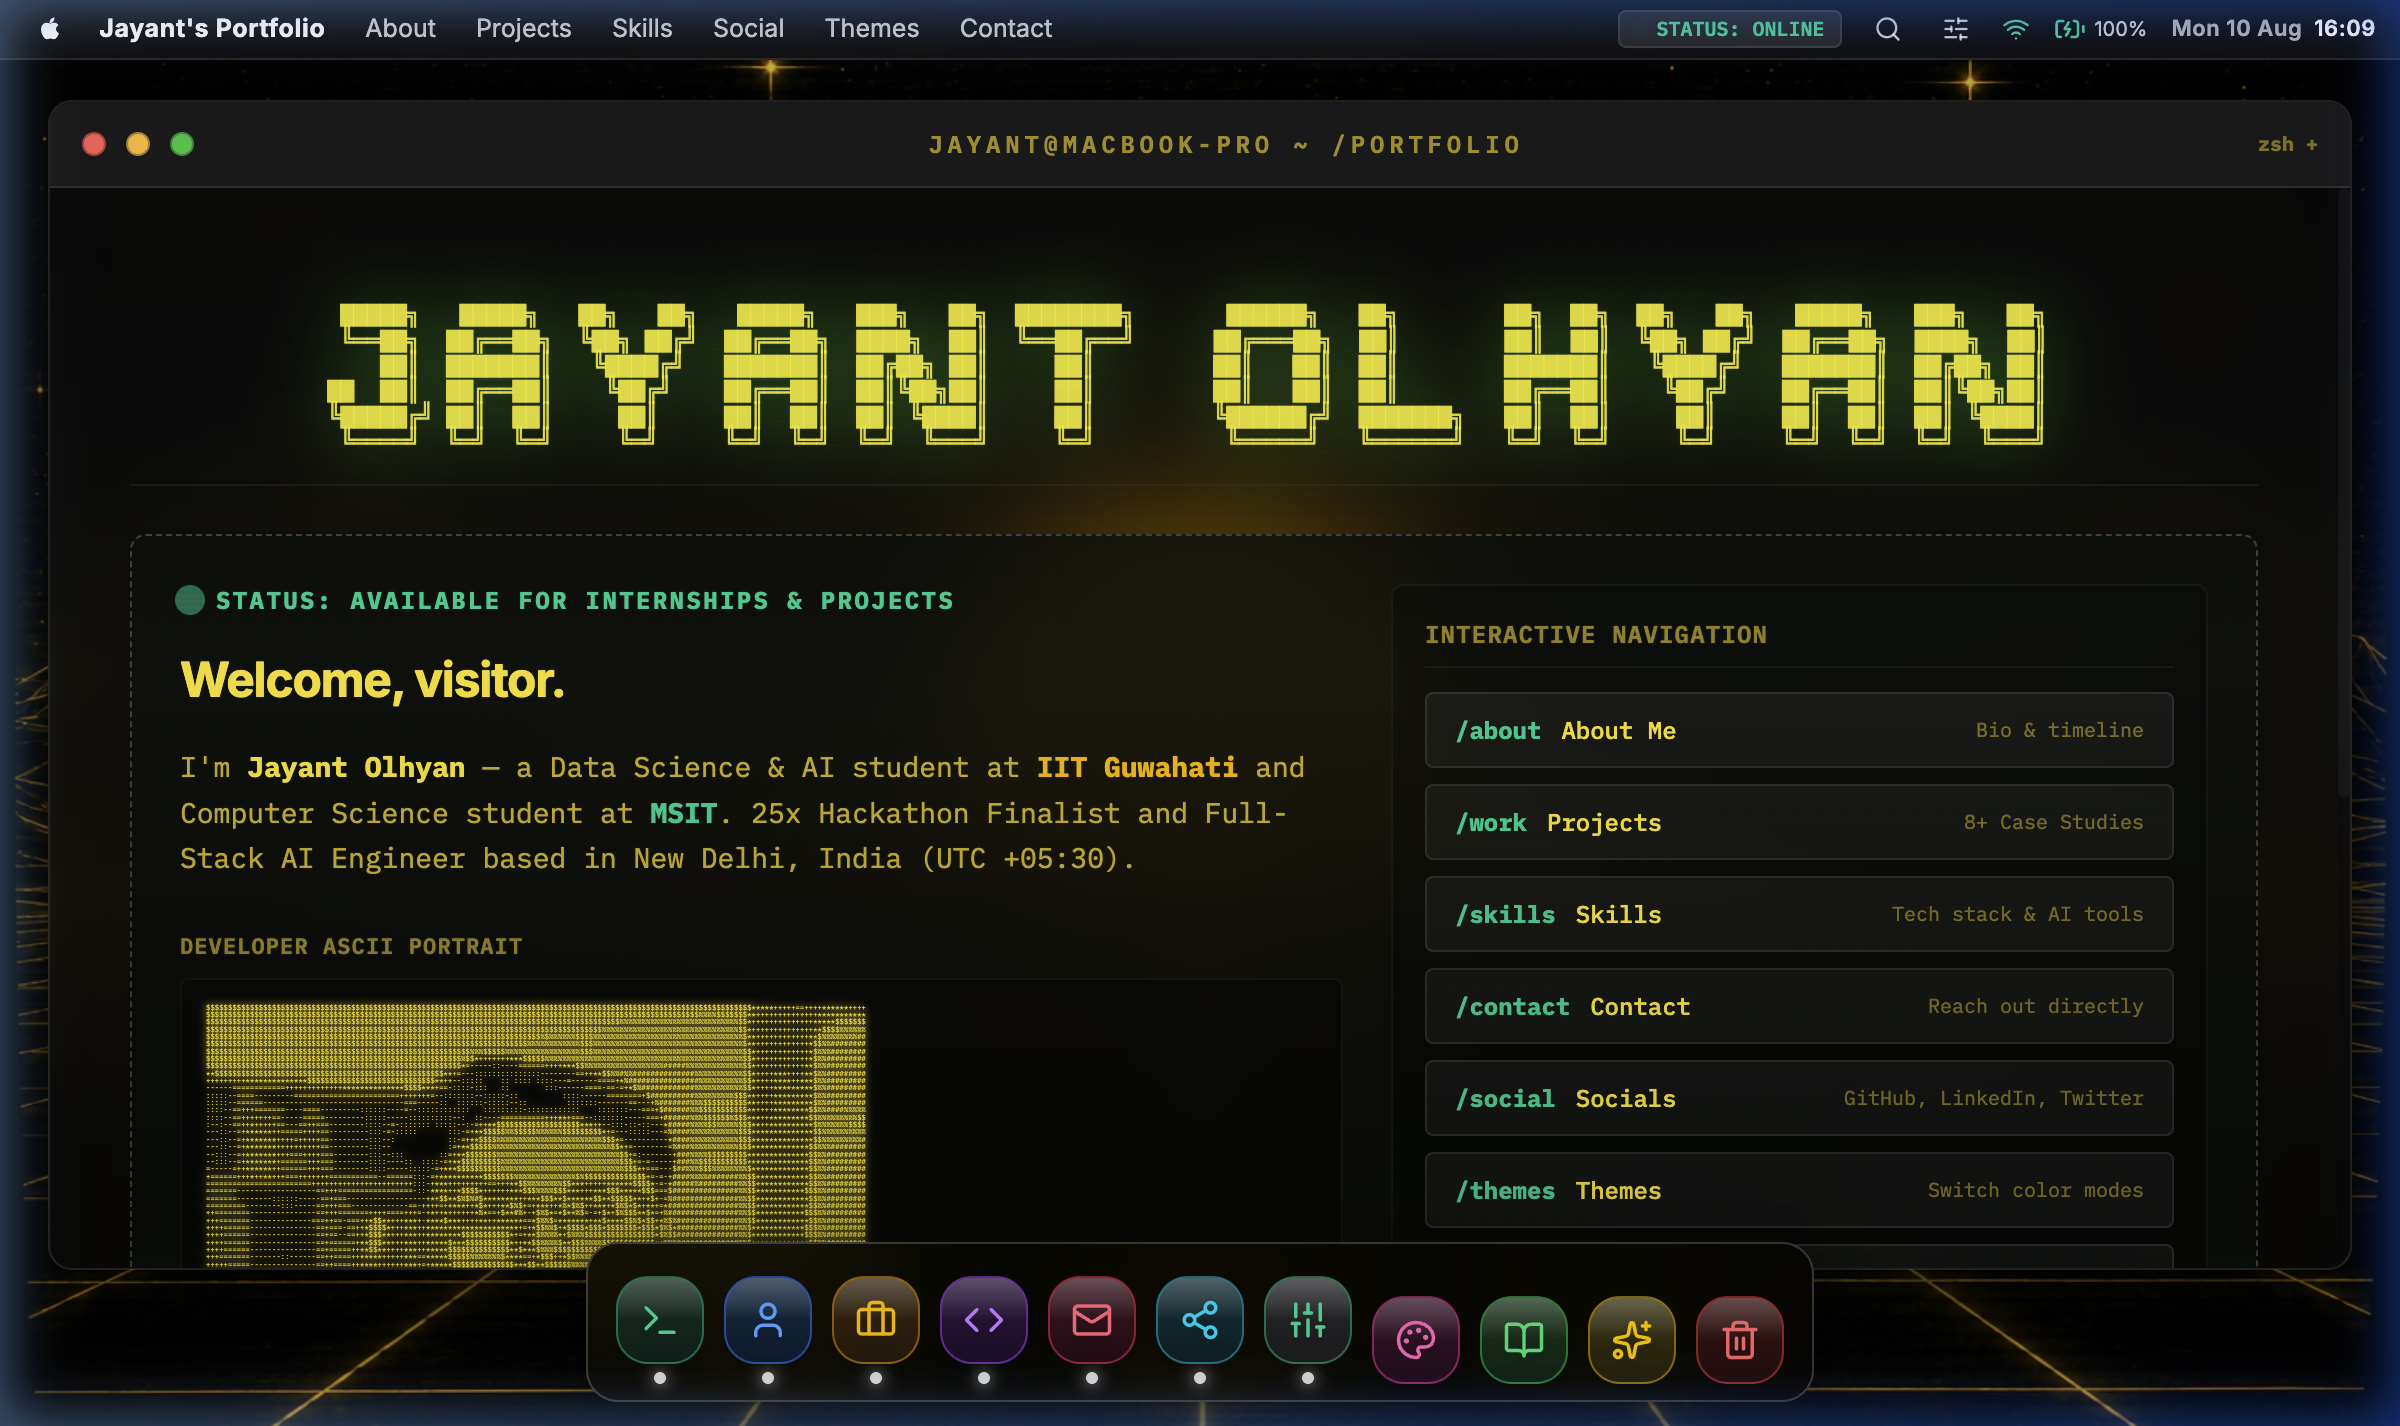
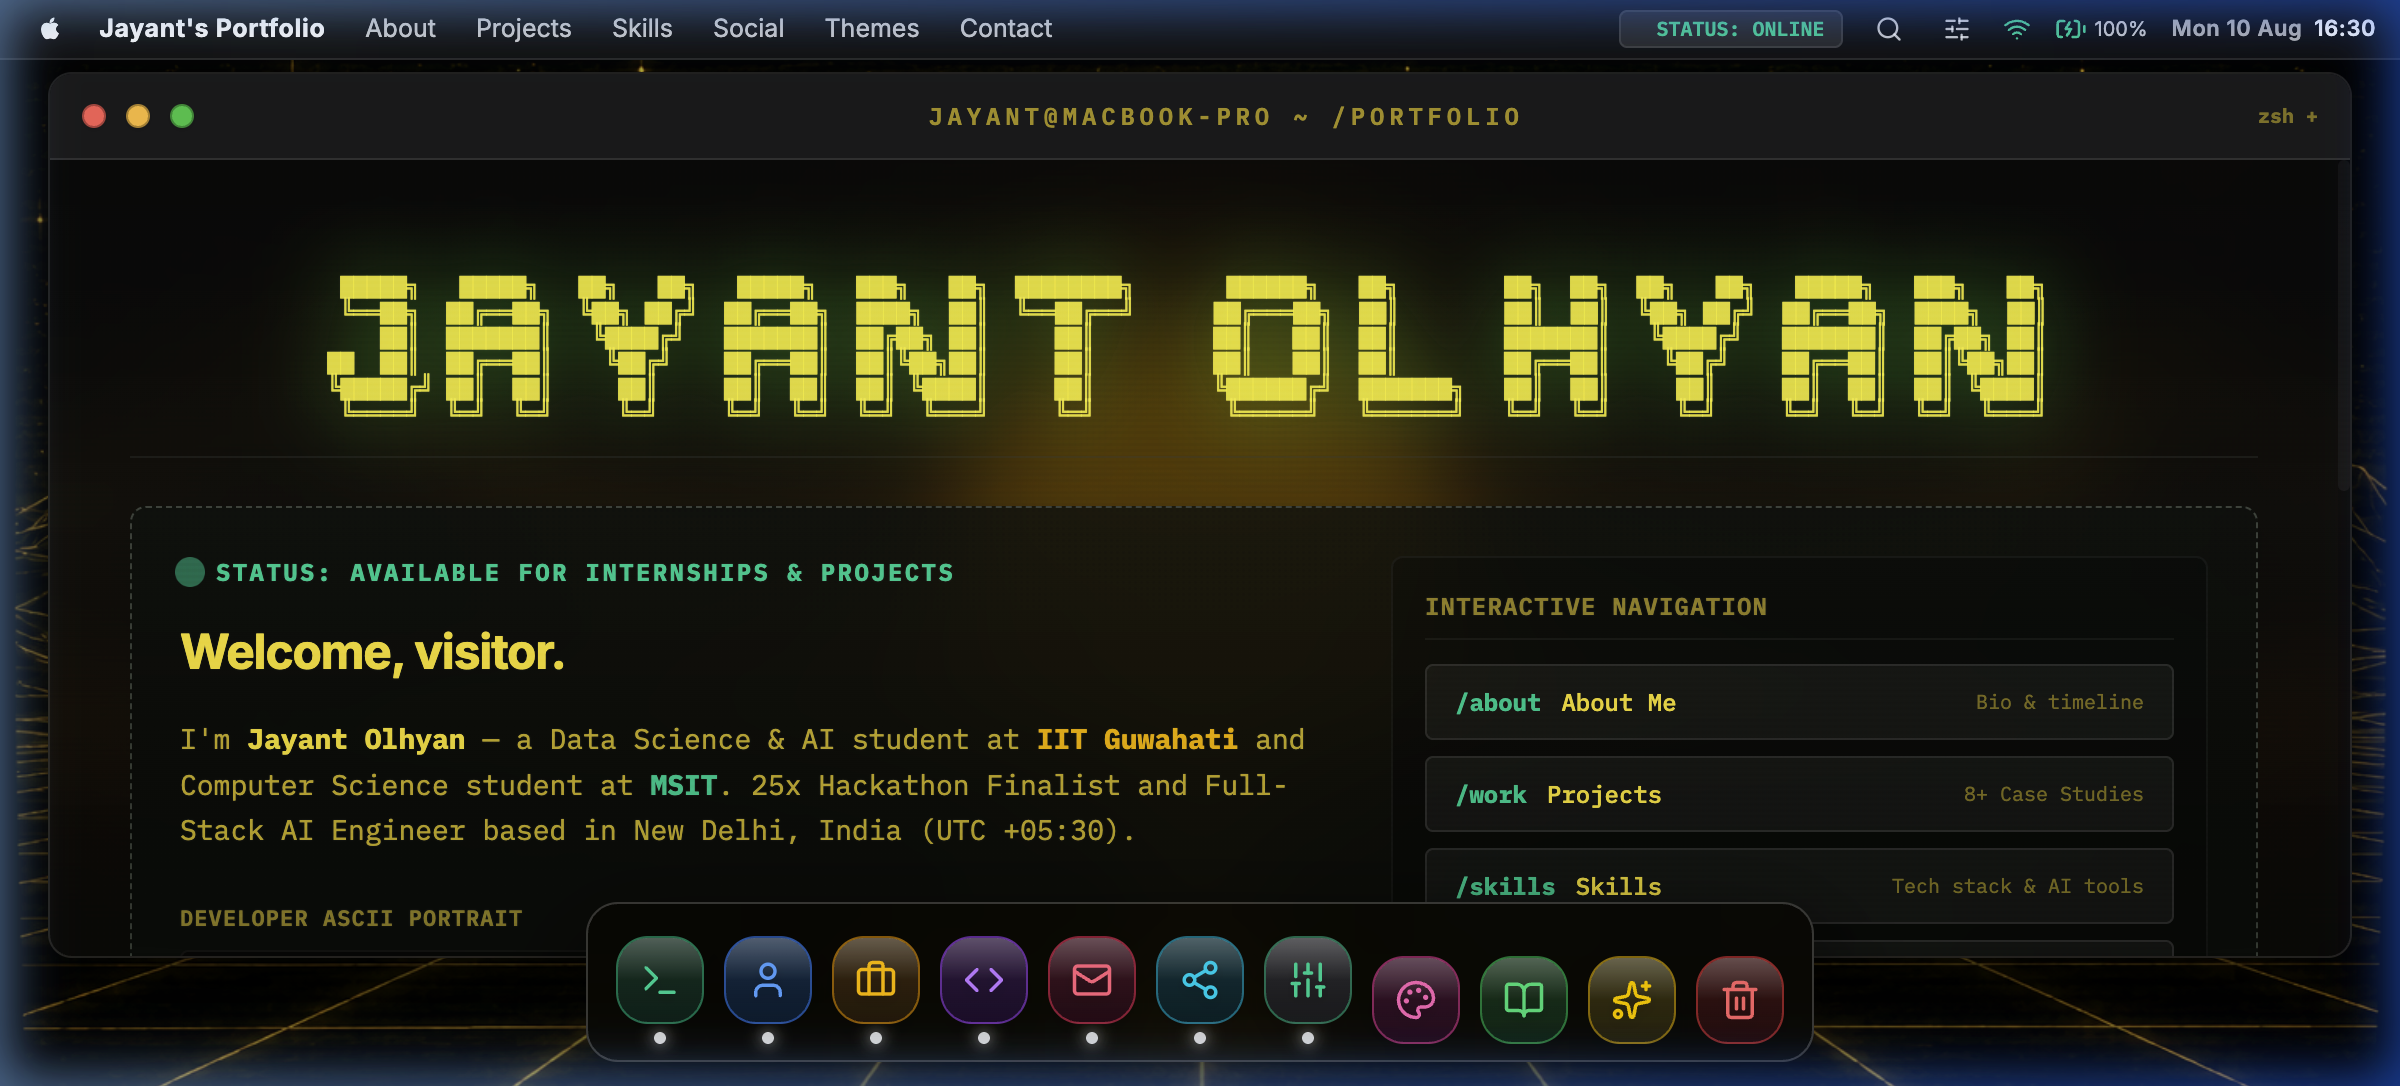
feat(seo): add captured real website screenshots for previews and ponytail-audit cleanups

diff --git a/src/components/ui/SettingsModal.jsx b/src/components/ui/SettingsModal.jsx
@@ -1,10 +1,8 @@
 import React, { useState } from 'react';
 import { motion, AnimatePresence } from 'framer-motion';
 import { 
-  Sliders, 
   Palette, 
   Sparkles, 
-  Terminal, 
   X, 
   Check, 
   RefreshCw, 
@@ -15,14 +13,19 @@ import {
   Monitor,
   Bell,
   Lock,
-  User,
   Zap,
   Info,
-  ExternalLink,
-  Shield,
-  Layers
+  ExternalLink
 } from 'lucide-react';
 import { themeData, siteMetadata } from '../../data/portfolioData';
+
+const sidebarCategories = [
+  { id: 'general', label: 'General', icon: SettingsIcon, color: 'bg-zinc-600' },
+  { id: 'appearance', label: 'Appearance & Wallpaper', icon: Palette, color: 'bg-indigo-500' },
+  { id: 'desktop', label: 'Desktop & Dock (FX)', icon: Monitor, color: 'bg-blue-500' },
+  { id: 'notifications', label: 'Notifications & Status', icon: Bell, color: 'bg-red-500' },
+  { id: 'security', label: 'Account & Socials', icon: Lock, color: 'bg-amber-500' },
+];
 
 export const SettingsModal = ({ 
   isOpen, 
@@ -39,14 +42,6 @@ export const SettingsModal = ({
   const [searchQuery, setSearchQuery] = useState('');
 
   if (!isOpen) return null;
-
-  const sidebarCategories = [
-    { id: 'general', label: 'General', icon: SettingsIcon, color: 'bg-zinc-600' },
-    { id: 'appearance', label: 'Appearance & Wallpaper', icon: Palette, color: 'bg-indigo-500' },
-    { id: 'desktop', label: 'Desktop & Dock (FX)', icon: Monitor, color: 'bg-blue-500' },
-    { id: 'notifications', label: 'Notifications & Status', icon: Bell, color: 'bg-red-500' },
-    { id: 'security', label: 'Account & Socials', icon: Lock, color: 'bg-amber-500' },
-  ];
 
   return (
     <AnimatePresence>
